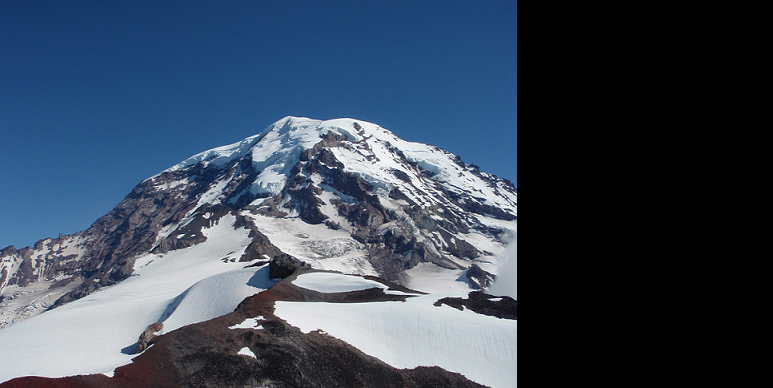
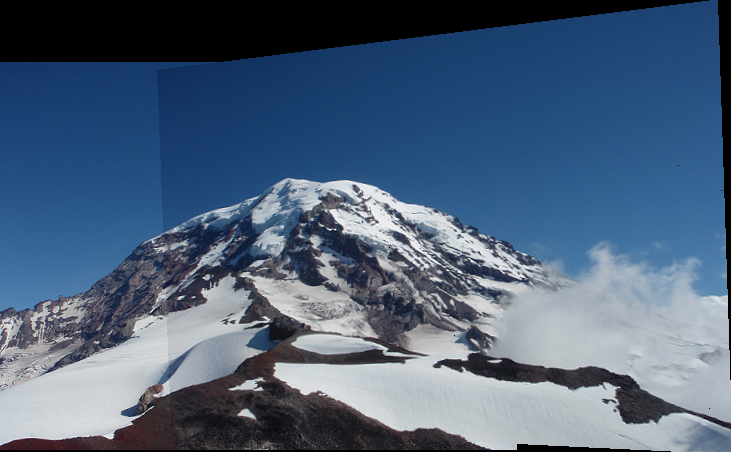
forget to commit again

diff --git a/src/hw3/panorama_image.c b/src/hw3/panorama_image.c
@@ -230,15 +230,13 @@ int model_inliers(matrix H, match *m, int n, float thresh)
     int i;
     int count = 0;
     match temp;
-    printf("thr = %f\n", thresh);
     for (i = 0; i<n; ++i){
-        printf("dis = %f\n", point_distance(project_point(H, m[i].p), m[i].q));
         if (point_distance(project_point(H, m[i].p), m[i].q) < thresh){
             temp = m[i];
             m[count] = m[i];
             m[i] = temp;
             count++;
-            printf("inliers, count = %d", count);
+            //printf("inliers, count = %d\n", count);
         }
     }
     // TODO: count number of matches that are inliers
@@ -254,9 +252,10 @@ void randomize_matches(match *m, int n)
 {
     // TODO: implement Fisher-Yates to shuffle the array.
     match temp;
+    //srand(55688);
     int i, j;
     for (i = 0; i < n-1; ++i){
-        j = (int)((n-i) * rand()/RAND_MAX) + i;  // i~n
+        j = (int)((n-i) * (float)rand()/(float)RAND_MAX) + i;  // i~n
         temp = m[j];
         m[j] = m[i];
         m[i] = temp;
@@ -271,7 +270,7 @@ matrix compute_homography(match *matches, int n)
 {
     matrix M = make_matrix(n*2, 8);
     matrix b = make_matrix(n*2, 1);
-
+    //printf("d1 = %f, d2 = %f\n", matches[0].distance, matches[1].distance);
     int i;
     for(i = 0; i < n; ++i){
         double x  = matches[i].p.x;
@@ -331,22 +330,20 @@ matrix compute_homography(match *matches, int n)
 // returns: matrix representing most common homography between matches.
 matrix RANSAC(match *m, int n, float thresh, int k, int cutoff)
 {
-    int e;
+    //int e;
     int best = 0, count;
+    
     matrix Hb = make_translation_homography(256, 0), H;
     // TODO: fill in RANSAC algorithm.
     for (int i = 0; i<k; ++i){
         randomize_matches(m, n);
-        H = compute_homography(m, 2 * sizeof(match));
-        count = model_inliers(H, m, n, thresh);
-        //printf("count = %d\n", count);
+        H = compute_homography(m, 4);
+        if (H.data) count = model_inliers(H, m, n, thresh);
+        
         if (count > best){
-            printf("count b4 = %d\n", count);
-            Hb = compute_homography(m, count * sizeof(match));
+            Hb = compute_homography(m, count);
             count = model_inliers(Hb, m, n, thresh);
             best = count;
-            printf("new = %d\n", count);
-            printf("==============\n");
             if (count > cutoff) return Hb;
         }
     }
@@ -388,7 +385,6 @@ image combine_images(image a, image b, matrix H)
     int dy = MIN(0, topleft.y);
     int w = MAX(a.w, botright.x) - dx;
     int h = MAX(a.h, botright.y) - dy;
-    printf("dx = %d, dy = %d", dx, dy);
     // Can disable this if you are making very big panoramas.
     // Usually this means there was an error in calculating H.
     if(w > 7000 || h > 7000){
@@ -404,7 +400,7 @@ image combine_images(image a, image b, matrix H)
         for(j = 0; j < a.h; ++j){
             for(i = 0; i < a.w; ++i){
                 // TODO: fill in.
-                set_pixel(c, i, j, k, get_pixel(a, i, j, k) - dx);
+                set_pixel(c, i - dx, j - dy, k, get_pixel(a, i, j, k));
             }
         }
     }
@@ -414,19 +410,22 @@ image combine_images(image a, image b, matrix H)
     // and see if their projection from a coordinates to b coordinates falls
     // inside of the bounds of image b. If so, use bilinear interpolation to
     // estimate the value of b at that projection, then fill in image c.
-    /*
+
     point AtoB;
     for(k = 0; k < c.c; ++k){
         for(j = 0; j < c.h; ++j){
             for(i = 0; i < c.w; ++i){
                 // TODO: fill in.
-                AtoB = project_point(H, make_point(i, j));
+                AtoB = project_point(H, make_point(i+dx, j+dy));
+                //AtoB.x = AtoB.x + dx;
+                //AtoB.y = AtoB.y + dy; 
+                //if (AtoB.x > b.w) printf("AtoB.x = %f\n", AtoB.x);
                 if (AtoB.x >= 0 && AtoB.x < b.w && AtoB.y >=0 && AtoB.y < b.h){
                     set_pixel(c, i, j, k, bilinear_interpolate(b, AtoB.x, AtoB.y, k));
                 }
             }
         }
-    }*/
+    }
 
     return c;
 }
@@ -456,7 +455,7 @@ image panorama_image(image a, image b, float sigma, float thresh, int nms, float
     // Run RANSAC to find the homography
     matrix H = RANSAC(m, mn, inlier_thresh, iters, cutoff);
 
-    if(0){
+    if(1){
         // Mark corners and matches between images
         mark_corners(a, ad, an);
         mark_corners(b, bd, bn);

diff --git a/src/test.c b/src/test.c
@@ -580,6 +580,7 @@ void test_compute_homography()
     match *m = calloc(4, sizeof(match));
     m[0].p = make_point(0,0);
     m[0].q = make_point(10,10);
+    //printf("test = %f\n", l2point_distance(make_point(3,3),make_point(4,4)));
     m[1].p = make_point(3,3);
     m[1].q = make_point(13,13);
     m[2].p = make_point(-1.2,-3.4);
